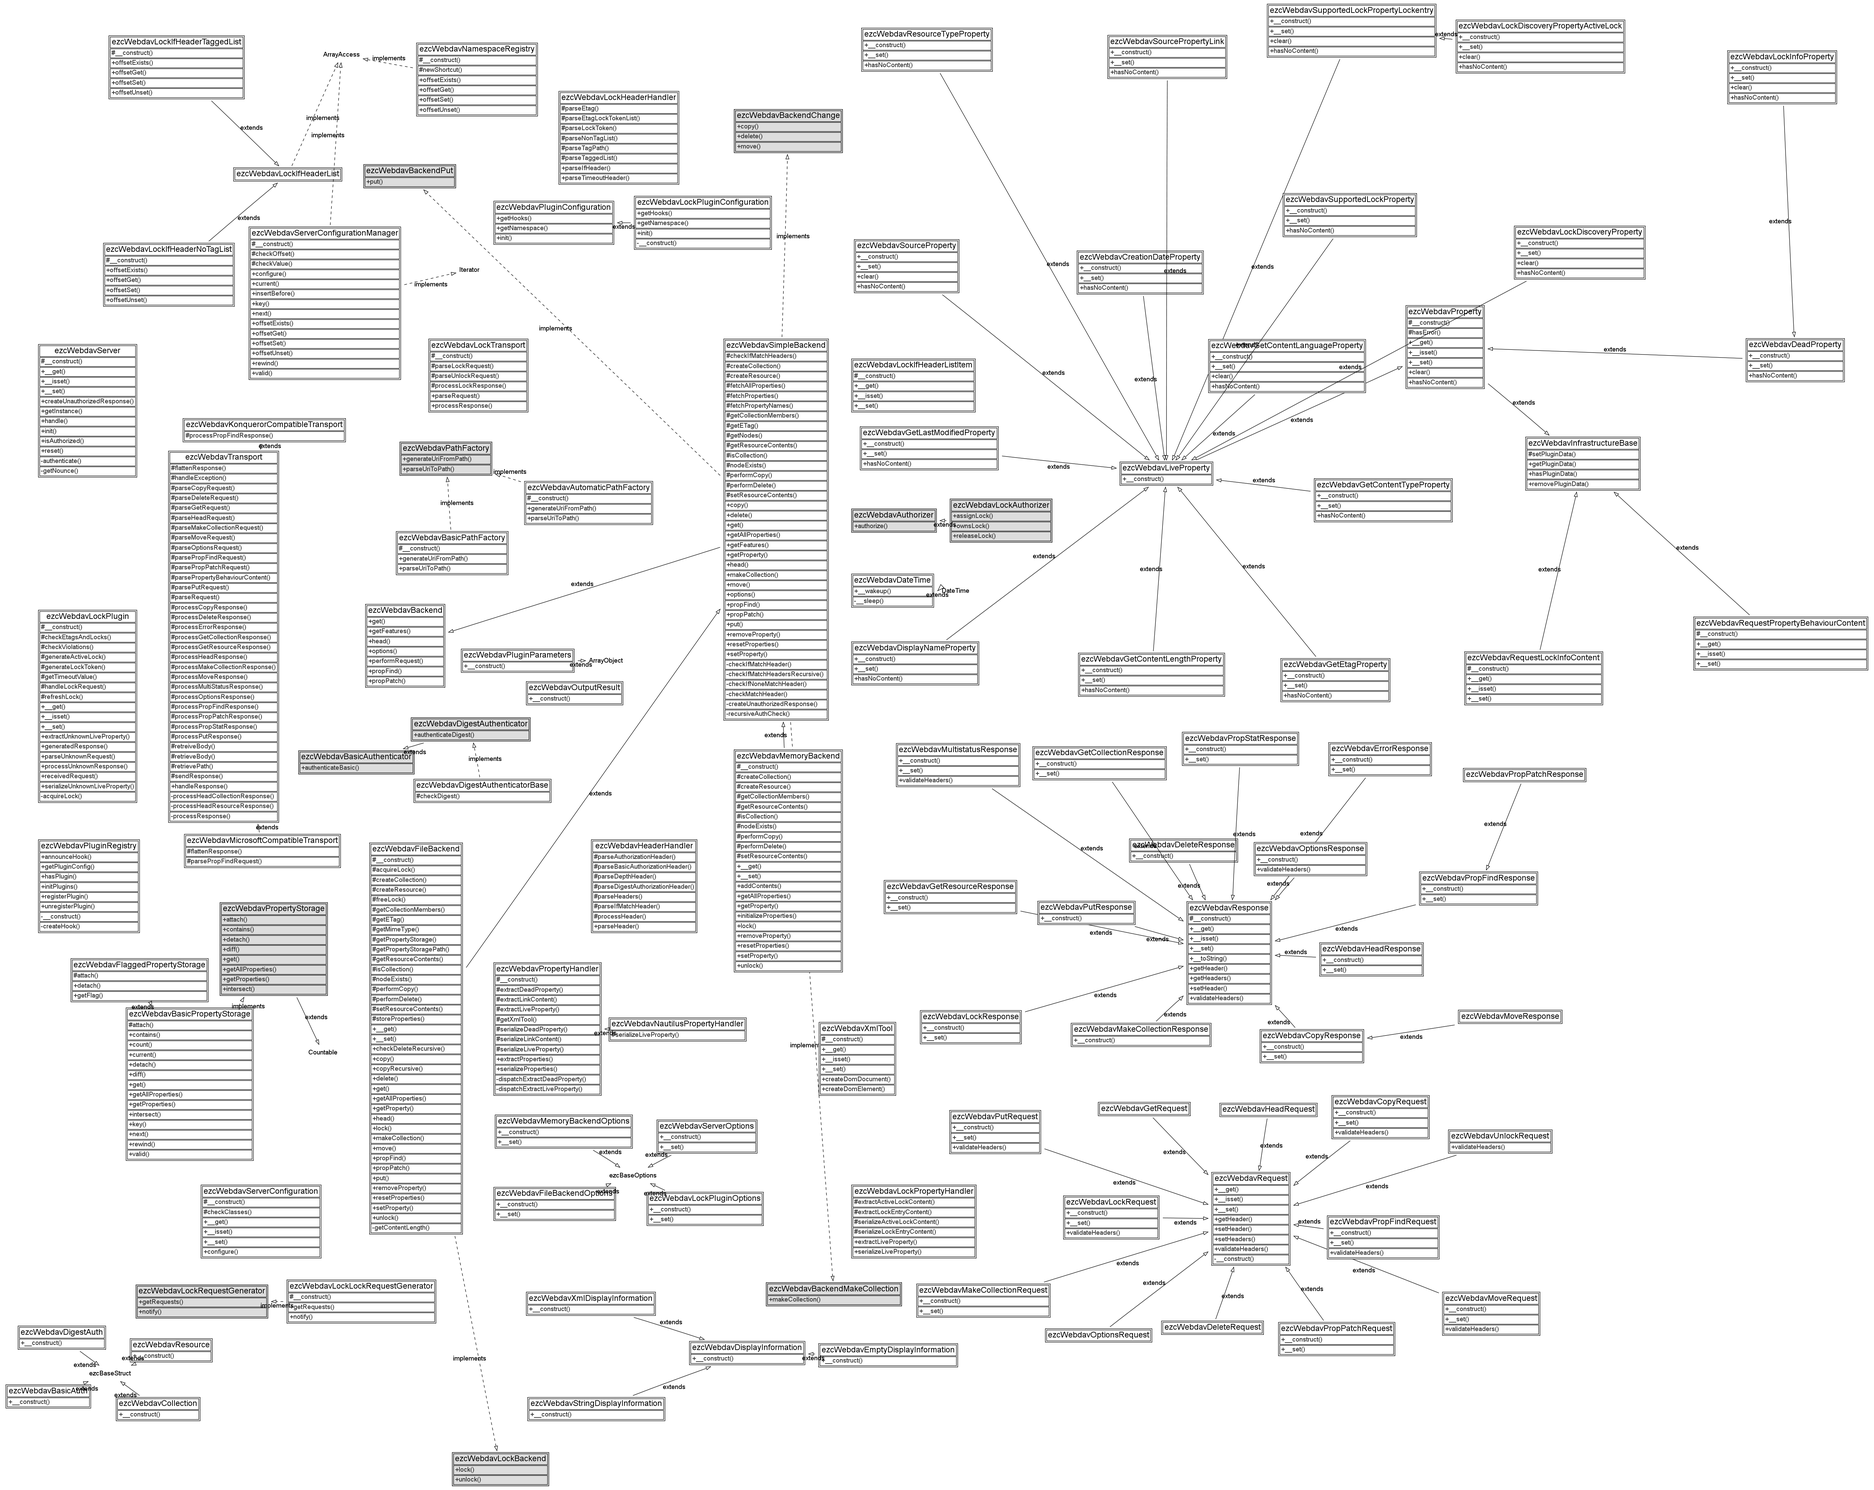
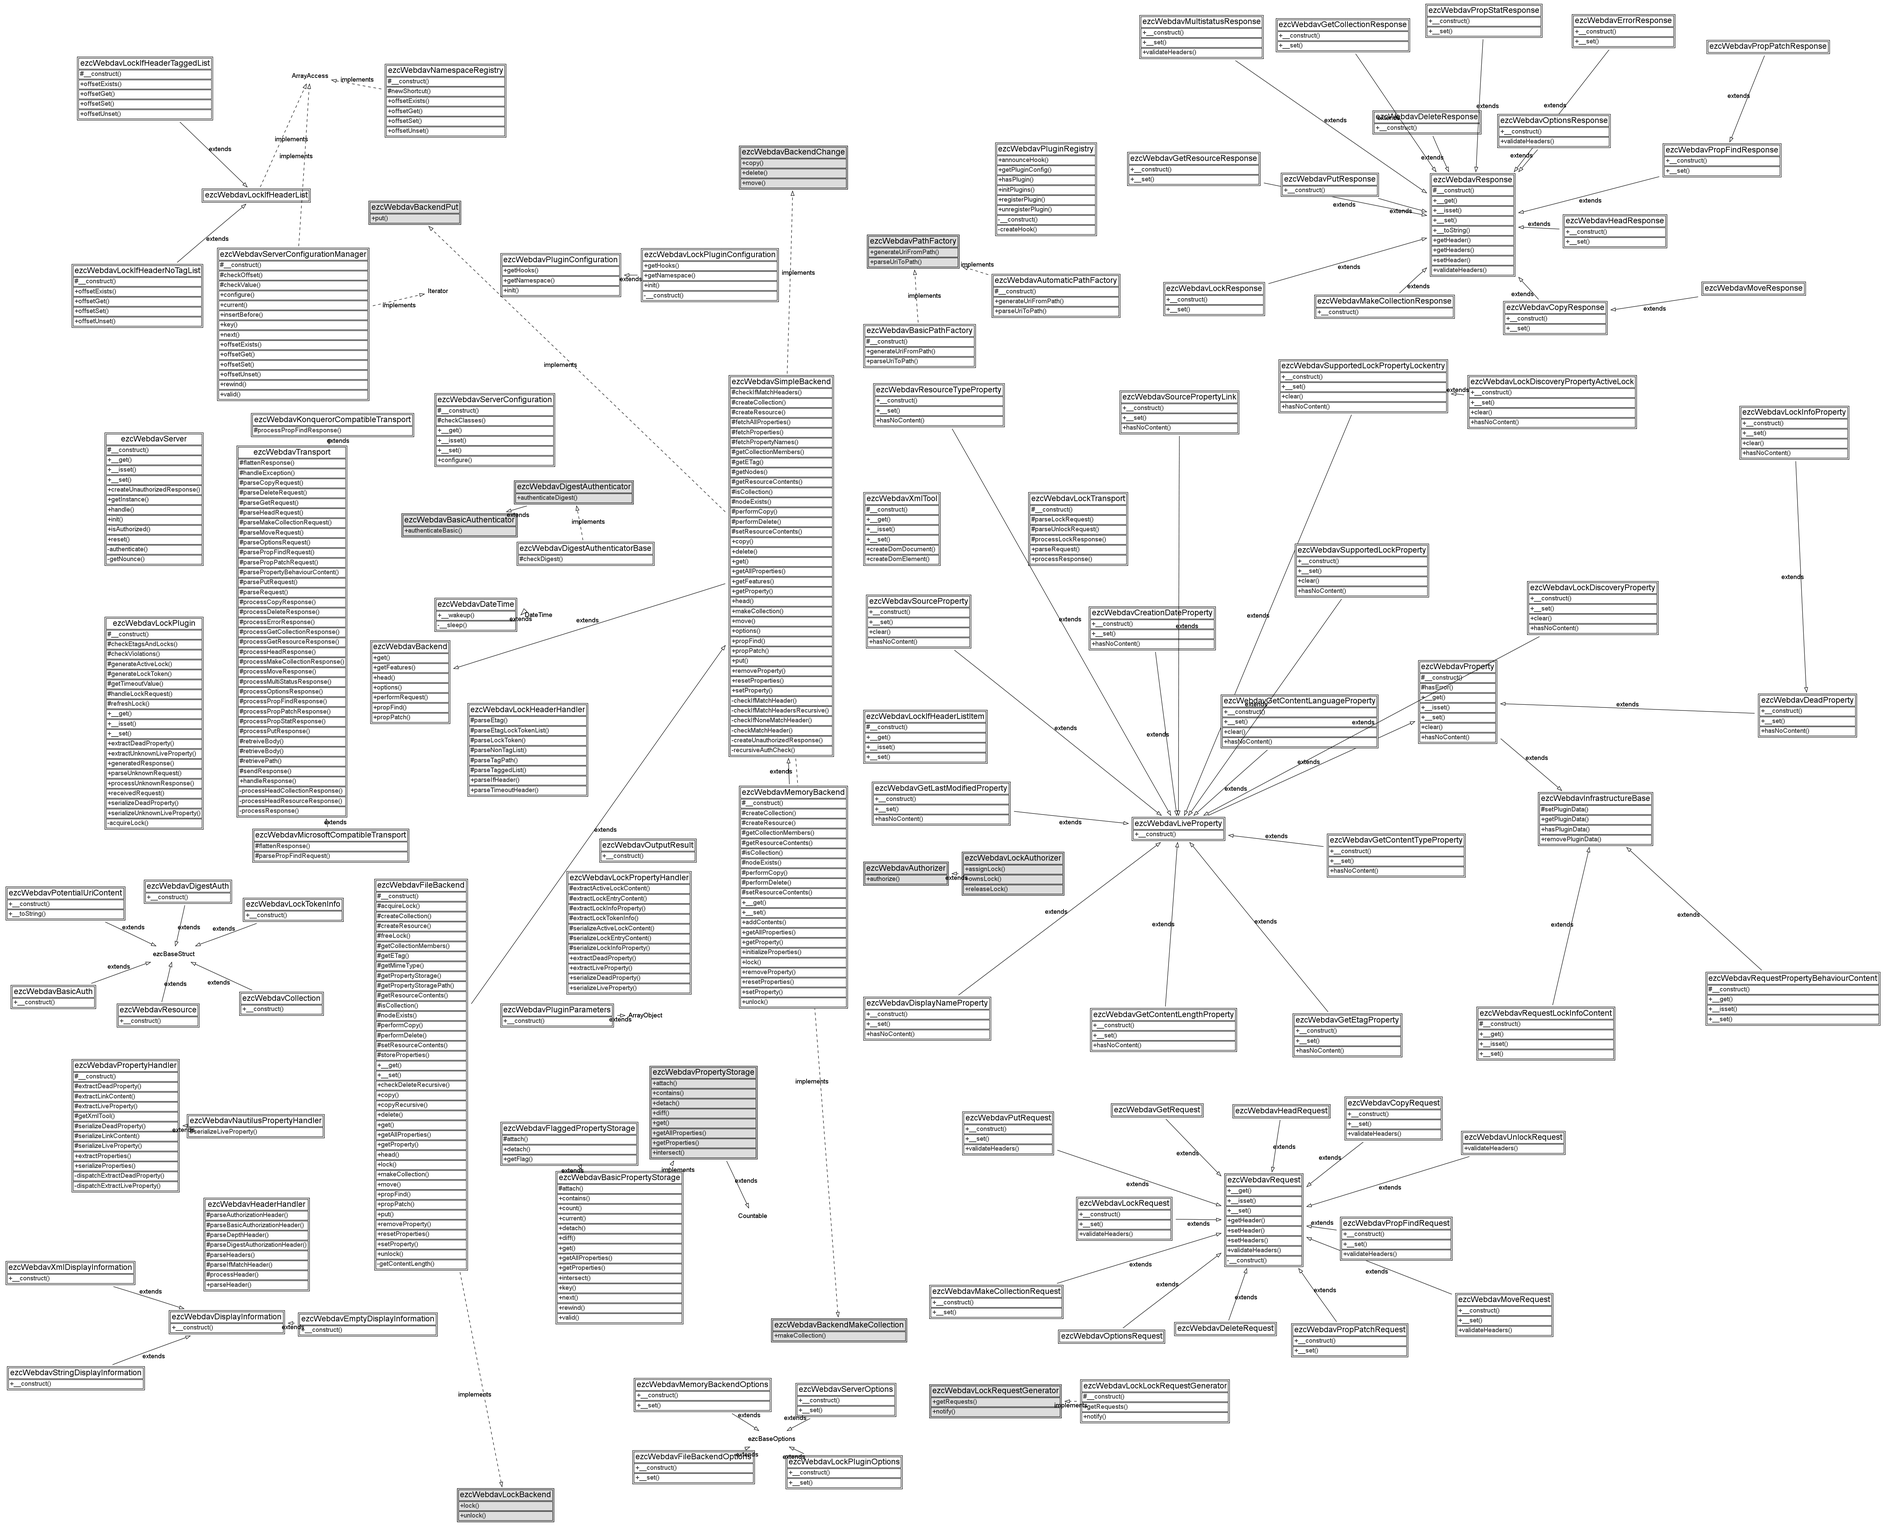
- Changed owner and lock token elements of the activelock property content to a   new struct ezcWebdavPotentialUriContent to properly reflect <href> XML   elements. - Added assertion methods for DOM tree equality to base test case. # This needs further code cleanup and should potentially be added to
git-svn-id: https://svn.apache.org/repos/asf/incubator/zetacomponents/trunk@976459 13f79535-47bb-0310-9956-ffa450edef68

diff --git a/Webdav/tests/test_case.php b/Webdav/tests/test_case.php
@@ -54,6 +54,104 @@ class ezcWebdavTestCase extends ezcTestCase
     {
         ezcWebdavServer::getInstance()->reset();
     }
+
+    protected function assertDomTreeEquals( DOMNode $expected, DOMNode $result, $level = 0 )
+    {
+        $this->assertDomNodeEquals( $expected, $result, $level );
+
+        if ( $expected->hasChildNodes() )
+        {
+            for ( $i = 0; $i < $expected->childNodes->length; ++$i )
+            {
+                $this->assertDomTreeEquals(
+                    $expected->childNodes->item( $i ),
+                    $result->childNodes->item( $i ),
+                    ++$level
+                );
+            }
+        }
+    }
+
+    protected function assertDomNodeEquals( DOMNode $expected, DOMNode $result, $level )
+    {
+        $this->assertEquals(
+            $expected->nodeType,
+            $result->nodeType,
+            "Node type missmatched {$expected->nodeType} expected, {$result->nodeType} received. " . $this->getNodeInfo( $expected, $result, $level )
+        );
+        $this->assertEquals(
+            $expected->nodeType,
+            $result->nodeType,
+            "Node type missmatched {$expected->nodeType} expected, {$result->nodeType} received. " . $this->getNodeInfo( $expected, $result, $level )
+        );
+        $this->assertEquals(
+            $expected->localName,
+            $result->localName,
+            "Local name missmatched {$expected->localName} expected, {$result->localName} received. " . $this->getNodeInfo( $expected, $result, $level )
+        );
+        $this->assertEquals(
+            $expected->namespaceURI,
+            $result->namespaceURI,
+            "Namespace URI missmatched {$expected->namespaceURI} expected, {$result->namespaceURI} received. " . $this->getNodeInfo( $expected, $result, $level )
+        );
+
+        switch ( $expected->nodeType )
+        {
+            case XML_ELEMENT_NODE:
+                if ( $expected->childNodes->length !== 0 )
+                {
+                    // Text content for elements with children might differ
+                    break;
+                }
+            case XML_ATTRIBUTE_NODE:
+            case XML_TEXT_NODE:
+                $this->assertEquals(
+                    trim( $expected->nodeValue ),
+                    trim( $result->nodeValue ),
+                    "Node value missmatched {$expected->nodeValue} expected, {$result->nodeValue} received. " . $this->getNodeInfo( $expected, $result, $level )
+                );
+                break;
+        }
+
+        if ( $expected->hasChildNodes() )
+        {
+            $this->assertEquals(
+                $expected->childNodes->length,
+                $result->childNodes->length,
+                "Expected number of children missmatched {$expected->childNodes->length} expected, {$result->childNodes->length} received. " . $this->getNodeInfo( $expected, $result, $level )
+            );
+        }
+    }
+
+    protected function getNodeInfo( DOMNode $expected, DOMNode $result, $level )
+    {
+        $parentExpectedElement = $this->getParentDomElement( $expected );
+        $parentResultElement = $this->getParentDomElement( $result );
+
+        $expectedDom = new DOMDocument();
+        $expectedImported = $expectedDom->importNode( $parentExpectedElement, true );
+        $expectedDom->appendChild( $expectedImported );
+
+        $resultDom  = new DOMDocument();
+        $resultImported = $resultDom->importNode( $parentResultElement, true );
+        $resultDom->appendChild( $resultImported );
+
+        return "Nesting level: $level."
+            . " Node info: Expected node: {$expected->localName} ({$expected->nodeType}). "
+            . "Received: {$result->localName} ({$result->nodeType})."
+            . "\n\nExpected:\n" . $expectedDom->saveXml()
+            . "\n\nActual:\n" . $resultDom->saveXml()
+        ;
+    }
+
+    protected function getParentDomElement( DOMNode $node )
+    {
+        if ( $node->nodeType === XML_ELEMENT_NODE )
+        {
+            return $node;
+        }
+        return $this->getParentDomElement( $node->parentNode );
+    }
 }
 
 ?>

diff --git a/Webdav/src/plugins/lock/property_handler.php b/Webdav/src/plugins/lock/property_handler.php
@@ -121,8 +121,11 @@ class ezcWebdavLockPropertyHandler
                     }
                     break;
                 case 'owner':
-                    // @TODO: Honor href element!
-                    $activeLock->owner = $currentElement->textContent;
+                    $activeLock->owner = new ezcWebdavPotentialUriContent(
+                        trim( $currentElement->textContent ),
+                        // Owner indicated by an URI?
+                        ( $currentElement->hasChildNodes() && $currentElement->childNodes->item( 0 )->localName === 'href' )
+                    );
                     break;
                 case 'timeout':
                     $timeoutVal = trim( $currentElement->nodeValue );
@@ -132,13 +135,14 @@ class ezcWebdavLockPropertyHandler
                     }
                     break;
                 case 'locktoken':
-                    foreach ( $currentElement->childNodes as $childNode )
-                    {
-                        if ( $childNode->nodeType === XML_ELEMENT_NODE && $childNode->localName === 'href' )
-                        {
-                            $activeLock->tokens->append( trim( $childNode->textContent ) );
-                        }
-                    }
+                    // @TODO: This may only be 1, no ArrayObject needed!
+                    $activeLock->tokens->append(
+                        new ezcWebdavPotentialUriContent(
+                            trim( $currentElement->textContent ),
+                            // Is lock token represented by an URI?
+                            ( $currentElement->hasChildNodes() && $currentElement->firstChild->localName === 'href' )
+                        )
+                    );
                     break;
             }
         }
@@ -279,12 +283,19 @@ class ezcWebdavLockPropertyHandler
 
             if ( $activeLock->owner !== null )
             {
-                $activeLockElement->appendChild(
+                $ownerElement = $activeLockElement->appendChild(
                     $xmlTool->createDomElement( $dom, 'owner' )
-                )->appendChild(
-                // @TODO: Is the owner element really always an URI?
-                    $xmlTool->createDomElement( $dom, 'href' )
-                )->nodeValue = $activeLock->owner;
+                );
+
+                // If owner is represented by an URI, wrap it in <href>
+                if ( $activeLock->owner->isUri )
+                {
+                    $ownerElement = $ownerElement->appendChild(
+                        $xmlTool->createDomElement( $dom, 'href' )
+                    );
+                }
+                
+                $ownerElement->nodeValue = $activeLock->owner->content;
             }
 
             $activeLockElement->appendChild(
@@ -293,11 +304,18 @@ class ezcWebdavLockPropertyHandler
 
             foreach ( $activeLock->tokens as $token )
             {
-                $activeLockElement->appendChild(
+                $lockTokenElement = $activeLockElement->appendChild(
                     $xmlTool->createDomElement( $dom, 'locktoken' )
-                )->appendChild(
-                    $xmlTool->createDomElement( $dom, 'href' )
-                )->nodeValue = $token;
+                );
+                
+                if ( $token->isUri )
+                {
+                    $lockTokenElement = $lockTokenElement->appendChild(
+                        $xmlTool->createDomElement( $dom, 'href' )
+                    );
+                }
+
+                $lockTokenElement->nodeValue = $token->content;
             }
 
             $activeLockElements[] = $activeLockElement;

diff --git a/Webdav/src/properties/lockdiscovery_activelock.php b/Webdav/src/properties/lockdiscovery_activelock.php
@@ -49,16 +49,16 @@ class ezcWebdavLockDiscoveryPropertyActiveLock extends ezcWebdavSupportedLockPro
      * @param array(string) $tokens
      * @return void
      */
-    public function __construct( $lockType           = ezcWebdavLockRequest::TYPE_READ,
-                                 $lockScope          = ezcWebdavLockRequest::SCOPE_SHARED,
-                                 $depth              = ezcWebdavRequest::DEPTH_INFINITY,
-                                 $owner              = null,
-                                 $timeout            = null,
-                                 ArrayObject $tokens = null )
+    public function __construct( $lockType                           = ezcWebdavLockRequest::TYPE_READ,
+                                 $lockScope                          = ezcWebdavLockRequest::SCOPE_SHARED,
+                                 $depth                              = ezcWebdavRequest::DEPTH_INFINITY,
+                                 ezcWebdavPotentialUriContent $owner = null,
+                                 $timeout                            = null,
+                                 ArrayObject $tokens                 = null )
     {
         parent::__construct( $lockType, $lockScope );
         $this->depth   = $depth;
-        $this->owner   = $owner;
+        $this->owner   = ( $owner === null ? new ezcWebdavPotentialUriContent() : $owner );
         $this->timeout = $timeout;
         $this->tokens  = ( $tokens === null ? new ArrayObject() : $tokens );
 
@@ -93,9 +93,9 @@ class ezcWebdavLockDiscoveryPropertyActiveLock extends ezcWebdavSupportedLockPro
                 }
                 break;
             case 'owner':
-                if ( !is_string( $propertyValue ) && $propertyValue !== null )
+                if ( !is_object( $propertyValue ) || !( $propertyValue instanceof ezcWebdavPotentialUriContent ) )
                 {
-                    return $this->hasError( $propertyName, $propertyValue, 'string' );
+                    return $this->hasError( $propertyName, $propertyValue, 'ezcWebdavPotentialUriContent' );
                 }
                 break;
             case 'timeout':
@@ -107,7 +107,7 @@ class ezcWebdavLockDiscoveryPropertyActiveLock extends ezcWebdavSupportedLockPro
             case 'tokens':
                 if ( !is_object( $propertyValue ) || !( $propertyValue instanceof ArrayObject ) )
                 {
-                    return $this->hasError( $propertyName, $propertyValue, 'ArrayObject(string)' );
+                    return $this->hasError( $propertyName, $propertyValue, 'ArrayObject(ezcWebdavPotentialUriContent)' );
                 }
                 break;
             default:
@@ -142,6 +142,7 @@ class ezcWebdavLockDiscoveryPropertyActiveLock extends ezcWebdavSupportedLockPro
         $this->properties['lockType']  = ezcWebdavLockRequest::TYPE_READ;
         $this->properties['lockScope'] = ezcWebdavLockRequest::SCOPE_SHARED;
         $this->properties['depth']     = ezcWebdavRequest::DEPTH_INFINITY;
+        $this->properties['owner']     = new ezcWebdavPotentialUriContent();
         $this->properties['tokens']    = new ArrayObject();
     }
 }

diff --git a/Webdav/src/structs/potential_uri_content.php b/Webdav/src/structs/potential_uri_content.php
@@ -1,0 +1,63 @@
+<?php
+/**
+ * File containing the ezcWebdavPotentialUriContent struct.
+ *
+ * @package Webdav
+ * @version //autogentag//
+ * @copyright Copyright (C) 2005-2008 eZ systems as. All rights reserved.
+ * @license http://ez.no/licenses/new_bsd New BSD License
+ */
+/**
+ * Struct representing a text that is potentially considered an URI.
+ *
+ * Some Webdav property values might either contain plain text or an URI,
+ * covered in an <href> XML element. This struct is used to represent such
+ * information. If the content of the property is an URI, the $isUri property
+ * is set to true. Otherwise it is false. The $content property contains the
+ * plain text content.
+ * 
+ * @package Webdav
+ * @version //autogen//
+ * @copyright Copyright (C) 2005-2008 eZ systems as. All rights reserved.
+ * @license http://ez.no/licenses/new_bsd New BSD License
+ */
+class ezcWebdavPotentialUriContent extends ezcBaseStruct
+{
+    /**
+     * Text content.
+     * 
+     * @var string
+     */
+    public $content;
+
+    /**
+     * If the text content is to be considered an URI. 
+     * 
+     * @var bool
+     */
+    public $isUri;
+
+    /**
+     * Creates a new potential URI content struct.
+     * 
+     * @param string $content 
+     * @param bool $isUri 
+     */
+    public function __construct( $content = '', $isUri = false )
+    {
+        $this->content = $content;
+        $this->isUri   = $isUri;
+    }
+
+    /**
+     * Converts the object to a string.
+     * 
+     * @return string
+     */
+    public function __toString()
+    {
+        return $this->content;
+    }
+}
+
+?>

diff --git a/Webdav/src/webdav_autoload.php b/Webdav/src/webdav_autoload.php
@@ -98,6 +98,7 @@ return array(
     'ezcWebdavLockPropertyHandler'                    => 'Webdav/plugins/lock/property_handler.php',
     'ezcWebdavLockRequest'                            => 'Webdav/requests/lock.php',
     'ezcWebdavLockResponse'                           => 'Webdav/responses/lock.php',
+    'ezcWebdavLockTokenInfo'                          => 'Webdav/plugins/lock/structs/lock_token_info.php',
     'ezcWebdavLockTransport'                          => 'Webdav/plugins/lock/transport.php',
     'ezcWebdavMakeCollectionRequest'                  => 'Webdav/requests/mkcol.php',
     'ezcWebdavMakeCollectionResponse'                 => 'Webdav/responses/mkcol.php',
@@ -114,6 +115,7 @@ return array(
     'ezcWebdavOutputResult'                           => 'Webdav/structs/output_result.php',
     'ezcWebdavPluginParameters'                       => 'Webdav/plugin_parameters.php',
     'ezcWebdavPluginRegistry'                         => 'Webdav/plugin_registry.php',
+    'ezcWebdavPotentialUriContent'                    => 'Webdav/structs/potential_uri_content.php',
     'ezcWebdavPropFindRequest'                        => 'Webdav/requests/propfind.php',
     'ezcWebdavPropPatchRequest'                       => 'Webdav/requests/proppatch.php',
     'ezcWebdavPropPatchResponse'                      => 'Webdav/responses/proppatch.php',

diff --git a/Webdav/tests/property_lockdiscovery_activelock_test.php b/Webdav/tests/property_lockdiscovery_activelock_test.php
@@ -17,7 +17,7 @@ class ezcWebdavLockDiscoveryPropertyActiveLockTest extends ezcWebdavWebdavProper
             'lockType'  => ezcWebdavLockRequest::TYPE_READ,
             'lockScope' => ezcWebdavLockRequest::SCOPE_SHARED,
             'depth'     => ezcWebdavRequest::DEPTH_INFINITY,
-            'owner'     => null,
+            'owner'     => new ezcWebdavPotentialUriContent(),
             'timeout'   => null,
             'tokens'    => new ArrayObject(),
         );
@@ -36,9 +36,9 @@ class ezcWebdavLockDiscoveryPropertyActiveLockTest extends ezcWebdavWebdavProper
                 ezcWebdavRequest::DEPTH_INFINITY,
             ),
             'owner' => array(
-                null,
-                '',
-                'Foo Bar',
+                new ezcWebdavPotentialUriContent( '' ),
+                new ezcWebdavPotentialUriContent( 'Foo Bar' ),
+                new ezcWebdavPotentialUriContent( 'http://example.com', true ),
             ),
             'timeout' => array(
                 null,

diff --git a/Webdav/tests/data/lock_properties/extract_live_property.php b/Webdav/tests/data/lock_properties/extract_live_property.php
@@ -32,9 +32,13 @@ $filledLockDiscoveryProperty = new ezcWebdavLockDiscoveryProperty(
                 ezcWebdavLockRequest::TYPE_WRITE,
                 ezcWebdavLockRequest::SCOPE_EXCLUSIVE,
                 ezcWebdavRequest::DEPTH_ZERO,
-                'Jane Smith',
+                new ezcWebdavPotentialUriContent( 'Jane Smith' ),
                 600,
-                new ArrayObject( array( 'opaquelocktoken:f81de2ad-7f3d-a1b2-4f3c-00a0c91a9d76' ) )
+                new ArrayObject(
+                    array(
+                        new ezcWebdavPotentialUriContent( 'opaquelocktoken:f81de2ad-7f3d-a1b2-4f3c-00a0c91a9d76', true )
+                    )
+                )
             ),
         )
     )

diff --git a/Webdav/tests/lock_property_handler_test.php b/Webdav/tests/lock_property_handler_test.php
@@ -97,7 +97,7 @@ class ezcWebdavLockPropertyHandlerTest extends ezcWebdavTestCase
         }
         
         // @TODO: This does not validate the XML needs to be refactored!
-        $this->assertEquals(
+        $this->assertDomTreeEquals(
             $expectedElement,
             $resultElement
         );
